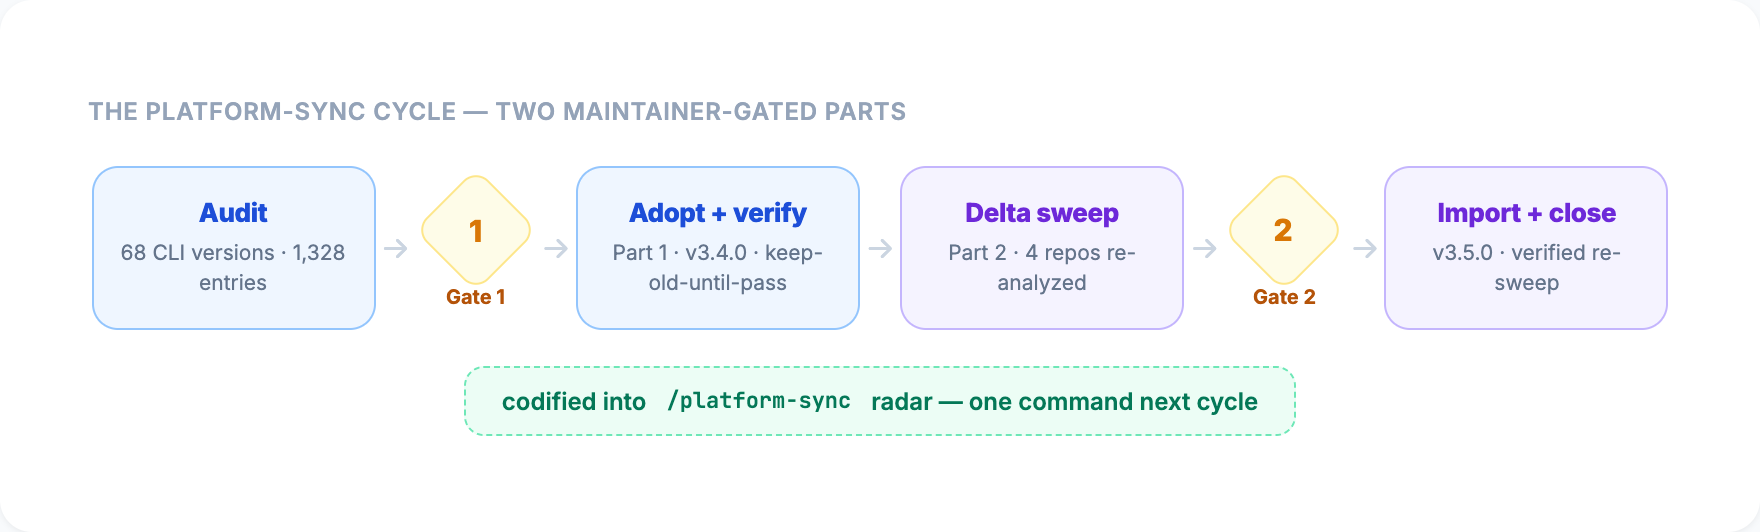
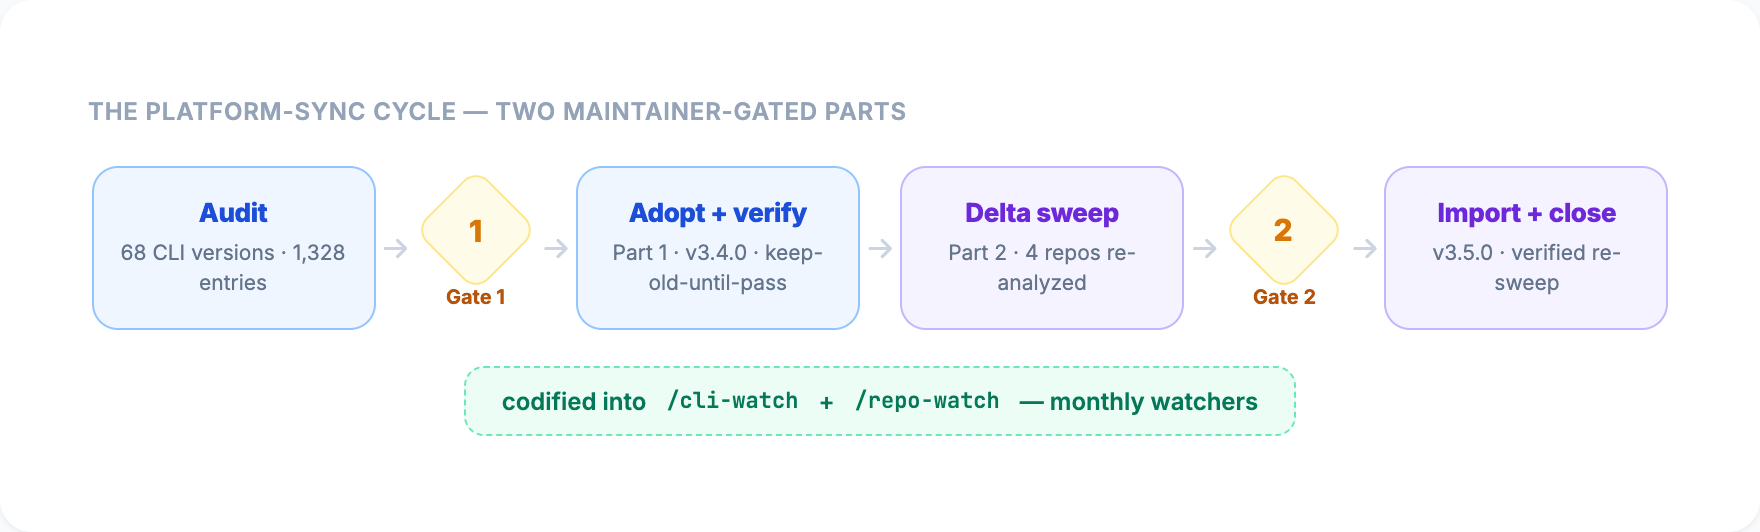
docs: reflect /platform-sync split into /cli-watch + /repo-watch watchers
The platform-sync radar was renamed and split into a matched pair of monthly
watchers (/cli-watch for platform updates, /repo-watch for the external-repo
registry). Update the public references accordingly — README intro + diagram
caption, index.html caption, the rebuild-verdicts decision record, and the
platform-sync-cycle diagram's radar note (re-rendered). The 'platform-sync
cycle' name is kept where it refers to the historical cycle itself.

Changed region(s): [[0.375, 0.7218, 0.7188, 0.782]]

diff --git a/index.html b/index.html
@@ -3498,7 +3498,7 @@
         <p>Every sync cycle audits the Claude Code platform and adopts what fits &mdash; as guarded opt-ins, never core dependencies</p>
       </div>
       <div class="reveal" style="background:#fff; border-radius:16px; padding:22px; margin-bottom:1.5rem; box-shadow:0 10px 30px rgba(0,0,0,0.25);">
-        <img src="docs/images/platform-sync-cycle.png" alt="Platform-sync cycle — Audit (68 CLI versions) → Gate 1 → Adopt + verify (Part 1, v3.4.0) → Delta sweep (Part 2, 4 repos) → Gate 2 → Import + close (v3.5.0), codified into the /platform-sync radar" style="display:block; width:100%; height:auto; border-radius:8px;" loading="lazy">
+        <img src="docs/images/platform-sync-cycle.png" alt="Platform-sync cycle — Audit (68 CLI versions) → Gate 1 → Adopt + verify (Part 1, v3.4.0) → Delta sweep (Part 2, 4 repos) → Gate 2 → Import + close (v3.5.0), codified into the /cli-watch + /repo-watch watchers" style="display:block; width:100%; height:auto; border-radius:8px;" loading="lazy">
       </div>
       <div class="reveal reveal-stagger platform-grid">
         <div style="background:#fff; border-radius:14px; padding:18px; box-shadow:0 10px 30px rgba(0,0,0,0.25);">

diff --git a/docs/images/render-diagrams.html b/docs/images/render-diagrams.html
@@ -2559,7 +2559,7 @@
       <div class="ps-stage-d">v3.5.0 · verified re-sweep</div>
     </div>
   </div>
-  <div class="ps-radar">codified into <span class="fx-mono">/platform-sync</span> radar — one command next cycle</div>
+  <div class="ps-radar">codified into <span class="fx-mono">/cli-watch</span> + <span class="fx-mono">/repo-watch</span> — monthly watchers</div>
 </div>
 
 </body>

diff --git a/README.md b/README.md
@@ -81,10 +81,10 @@ Every component in Blueprint is informed by what works (and what doesn't) across
 
 ### The latest two releases: a platform-sync cycle
 
-v3.4.0 and v3.5.0 were produced by a single **platform-sync cycle** — one initiative in two maintainer-gated parts. Part 1 audited the entire Claude Code platform delta since the last sync and adopted what fit; Part 2 re-analyzed four external repos and imported what earned its place. The audit method is now a reusable `/platform-sync` radar so the next cycle is one command.
+v3.4.0 and v3.5.0 were produced by a single **platform-sync cycle** — one initiative in two maintainer-gated parts. Part 1 audited the entire Claude Code platform delta since the last sync and adopted what fit; Part 2 re-analyzed four external repos and imported what earned its place. The audit method is now codified into two reusable monthly watchers — `/cli-watch` (platform) and `/repo-watch` (external repos).
 
 <p align="center">
-  <img src="docs/images/platform-sync-cycle.png" alt="Platform-sync cycle — Audit (68 CLI versions) → Gate 1 → Adopt + verify (Part 1, v3.4.0) → Delta sweep (Part 2, 4 repos) → Gate 2 → Import + close (v3.5.0), codified into the /platform-sync radar" width="90%">
+  <img src="docs/images/platform-sync-cycle.png" alt="Platform-sync cycle — Audit (68 CLI versions) → Gate 1 → Adopt + verify (Part 1, v3.4.0) → Delta sweep (Part 2, 4 repos) → Gate 2 → Import + close (v3.5.0), codified into the /cli-watch + /repo-watch watchers" width="90%">
 </p>
 
 ### What's New in v3.5.0 — Ecosystem Delta Sweep

diff --git a/docs/learnings/2026-07-17-rebuild-verdicts.md b/docs/learnings/2026-07-17-rebuild-verdicts.md
@@ -15,7 +15,7 @@ tags: [gate-decision, supersede, ship-sh, wave-orchestration, injection-scanner,
 Gate 1 evaluated four supersede candidates (R2). Candidate a (`ship-loop.sh` → `/goal`) is
 recorded separately in [the goal-vs-ship-loop record](2026-07-17-goal-vs-ship-loop-rebuild.md). The
 other three are recorded here. All three resolved to **keep** — the native feature does not supersede the custom machinery.
-Recorded per R16 so future cycles and the `/platform-sync` radar do not re-litigate them.
+Recorded per R16 so future cycles and the `/cli-watch` + `/repo-watch` watchers do not re-litigate them.
 
 ## R2b — `scripts/ship.sh` outer loop vs native `/loop` + ScheduleWakeup → **KEEP ship.sh**
 
